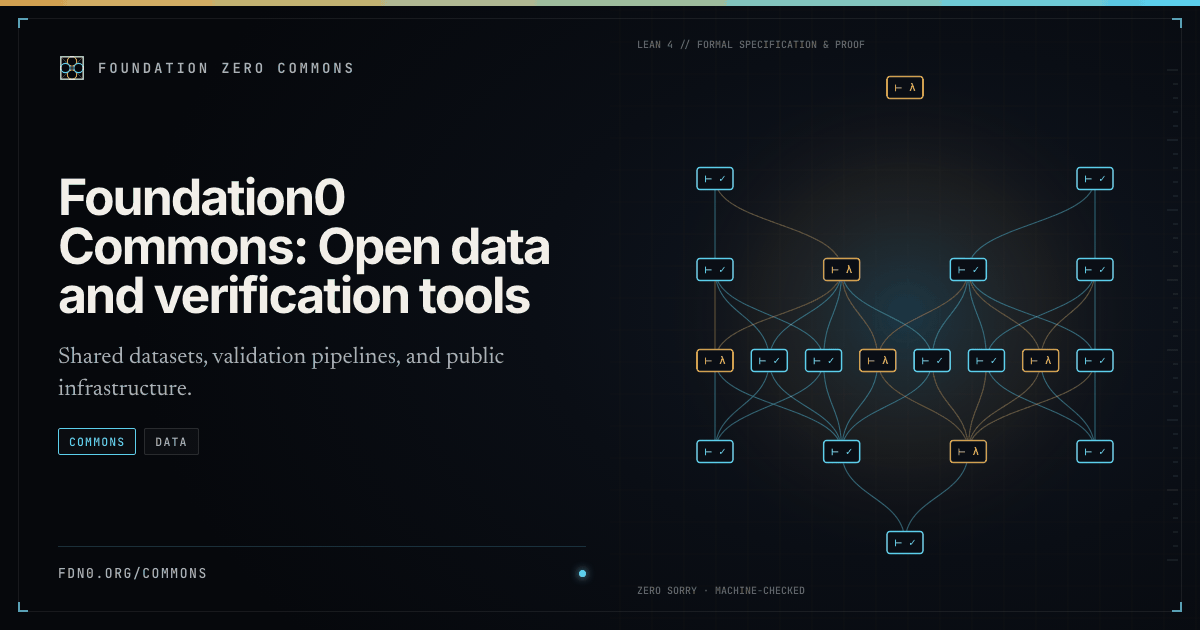
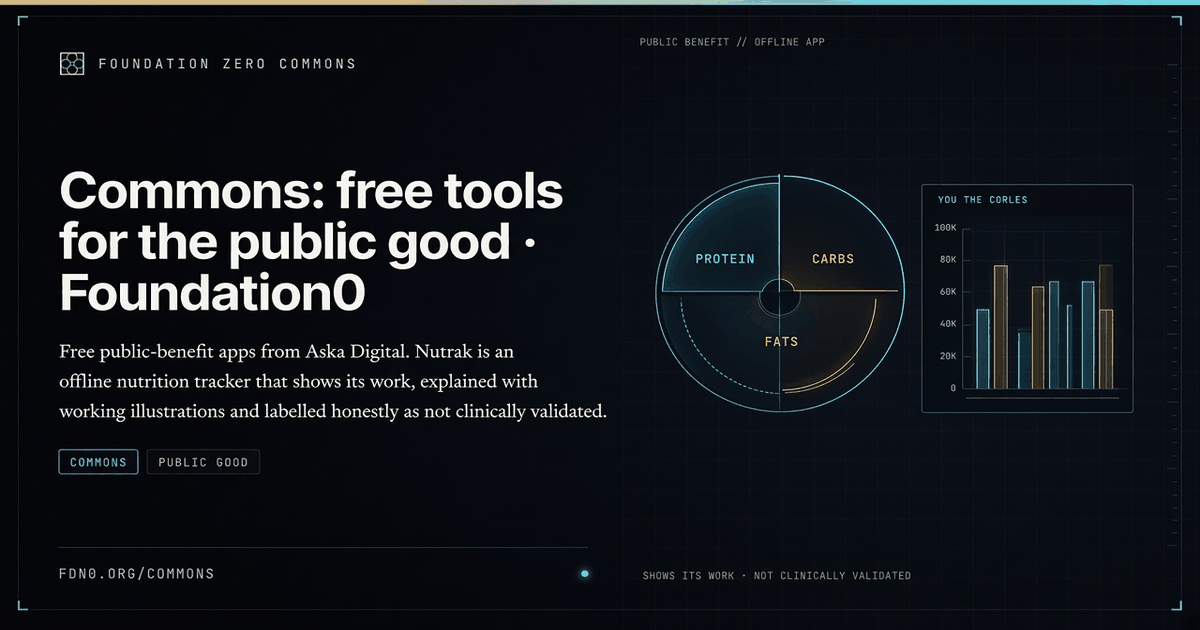
Regenerate Commons and Instruments share cards
Update og-commons.png and og-instruments.png so baked-in title and
description match the pages. Restore author credits on Instruments
meta tags; refresh og:image:alt and twitter:image:alt on both pages.

diff --git a/docs/instruments/index.html b/docs/instruments/index.html
@@ -23,17 +23,17 @@
 <meta property="og:type" content="website">
 <meta property="og:site_name" content="Foundation0">
 <meta property="og:title" content="Instruments: a lab for one person · Foundation0">
-<meta property="og:description" content="The tools that let one person work with AI at the level of a lab: Exo, Exo OS (private preview), Auto-research-agent, and autofoundry, explained from first principles.">
+<meta property="og:description" content="The tools that let one person work with AI at the level of a lab: Aska Digital's Exo and Exo OS (private preview), Rohan Arun's Auto-research-agent and Ryan Shea's autofoundry.">
 <meta property="og:url" content="https://fdn0.org/instruments/">
 <meta property="og:image" content="https://fdn0.org/assets/og-instruments.png">
 <meta property="og:image:width" content="1200">
 <meta property="og:image:height" content="630">
-<meta property="og:image:alt" content="Foundation0 Instruments: Interactive scientific tools.">
+<meta property="og:image:alt" content="Instruments: a lab for one person · Foundation0. Aska Digital's Exo and Exo OS (private preview), Rohan Arun's Auto-research-agent and Ryan Shea's autofoundry.">
 <meta name="twitter:card" content="summary_large_image">
 <meta name="twitter:title" content="Instruments: a lab for one person · Foundation0">
-<meta name="twitter:description" content="The tools that let one person work with AI at the level of a lab: Exo, Exo OS (private preview), Auto-research-agent, and autofoundry, explained from first principles.">
+<meta name="twitter:description" content="The tools that let one person work with AI at the level of a lab: Aska Digital's Exo and Exo OS (private preview), Rohan Arun's Auto-research-agent and Ryan Shea's autofoundry.">
 <meta name="twitter:image" content="https://fdn0.org/assets/og-instruments.png">
-<meta name="twitter:image:alt" content="Foundation0 Instruments: Interactive scientific tools.">
+<meta name="twitter:image:alt" content="Instruments: a lab for one person · Foundation0. Aska Digital's Exo and Exo OS (private preview), Rohan Arun's Auto-research-agent and Ryan Shea's autofoundry.">
 </head>
 <body data-page="instruments">
 <svg width="0" height="0" style="position:absolute" aria-hidden="true" focusable="false">

diff --git a/docs/commons/index.html b/docs/commons/index.html
@@ -27,12 +27,12 @@
 <meta property="og:image" content="https://fdn0.org/assets/og-commons.png">
 <meta property="og:image:width" content="1200">
 <meta property="og:image:height" content="630">
-<meta property="og:image:alt" content="Foundation0 Commons: Open data and verification tools.">
+<meta property="og:image:alt" content="Commons: free tools for the public good · Foundation0. Free public-benefit apps from Aska Digital; Nutrak is an offline nutrition tracker labelled as not clinically validated.">
 <meta name="twitter:card" content="summary_large_image">
 <meta name="twitter:title" content="Commons: free tools for the public good · Foundation0">
 <meta name="twitter:description" content="Free public-benefit apps from Aska Digital. Nutrak is an offline nutrition tracker that shows its work, explained with working illustrations and labelled honestly as not clinically validated.">
 <meta name="twitter:image" content="https://fdn0.org/assets/og-commons.png">
-<meta name="twitter:image:alt" content="Foundation0 Commons: Open data and verification tools.">
+<meta name="twitter:image:alt" content="Commons: free tools for the public good · Foundation0. Free public-benefit apps from Aska Digital; Nutrak is an offline nutrition tracker labelled as not clinically validated.">
 </head>
 <body data-page="commons">
 <svg width="0" height="0" style="position:absolute" aria-hidden="true" focusable="false">
